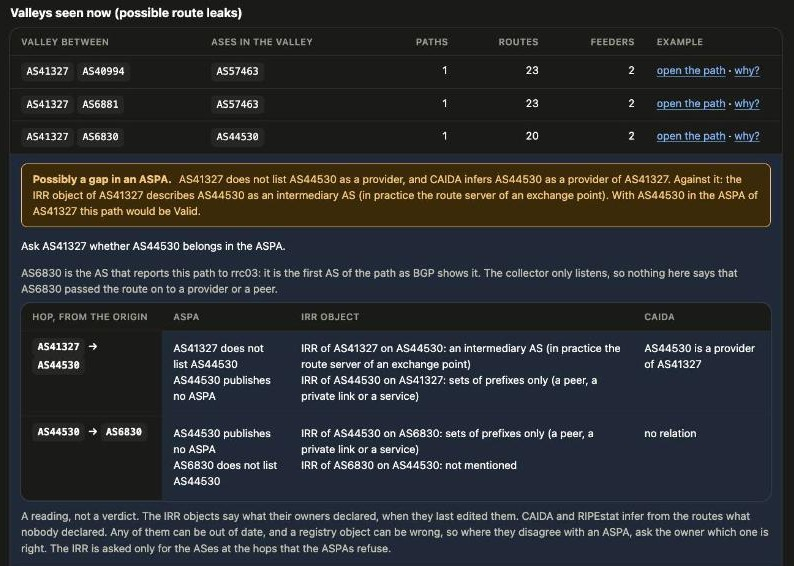
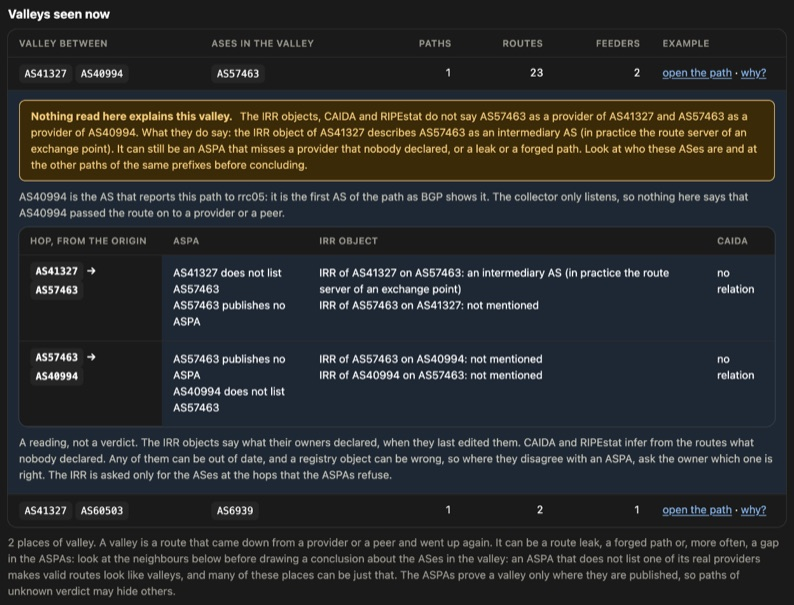
Screenshots of the valleys with the new labels, README link to the renamed wiki section, comments say valleys

diff --git a/README.md b/README.md
@@ -283,7 +283,7 @@ In a browser that allows it (GitLab does) the boxes of the diagram are links to 
 | nginx: cache, headers, proxy | [Deployment, what the nginx configuration does](https://gitlab.dei.unipd.it/Antonio-Prado/aspa-explorer/-/wikis/Deployment#what-the-nginx-configuration-does) |
 | `build-api` (per-AS files, badges, feeds) | [Deployment, the per-AS API](https://gitlab.dei.unipd.it/Antonio-Prado/aspa-explorer/-/wikis/Deployment#the-per-as-api-badges-and-feeds) |
 | `build-adoption` | [Deployment, the adoption numbers](https://gitlab.dei.unipd.it/Antonio-Prado/aspa-explorer/-/wikis/Deployment#the-adoption-numbers) |
-| `build-leaks`, `build-validators` | [Deployment, the route-leak and validator builders](https://gitlab.dei.unipd.it/Antonio-Prado/aspa-explorer/-/wikis/Deployment#the-route-leak-and-validator-builders) |
+| `build-leaks`, `build-validators` | [Deployment, the valley and validator builders](https://gitlab.dei.unipd.it/Antonio-Prado/aspa-explorer/-/wikis/Deployment#the-valley-and-validator-builders) |
 | `build-status` and the chart of the status page | [Deployment, the status history](https://gitlab.dei.unipd.it/Antonio-Prado/aspa-explorer/-/wikis/Deployment#the-status-history) and [User guide, Status](https://gitlab.dei.unipd.it/Antonio-Prado/aspa-explorer/-/wikis/User-guide#status) |
 | The notifier | [Deployment, notifications](https://gitlab.dei.unipd.it/Antonio-Prado/aspa-explorer/-/wikis/Deployment#notifications-optional) and [User guide](https://gitlab.dei.unipd.it/Antonio-Prado/aspa-explorer/-/wikis/User-guide#notifications-by-e-mail-and-webhook) |
 | The history branch and the daily job | [Deployment, rebuilding the history](https://gitlab.dei.unipd.it/Antonio-Prado/aspa-explorer/-/wikis/Deployment#rebuilding-the-history) and [scheduled jobs](https://gitlab.dei.unipd.it/Antonio-Prado/aspa-explorer/-/wikis/Deployment#scheduled-jobs) |
